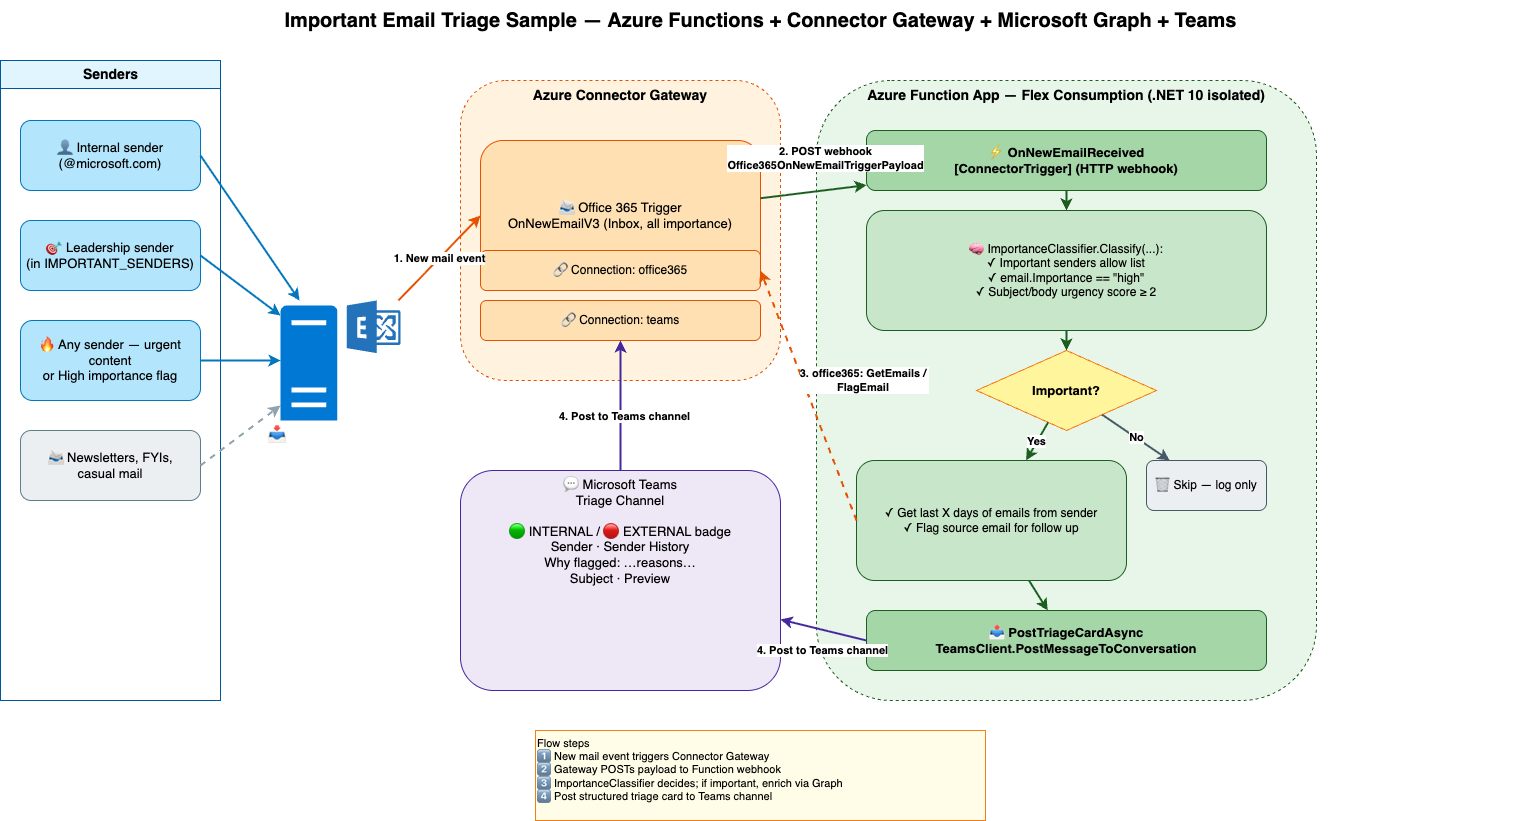
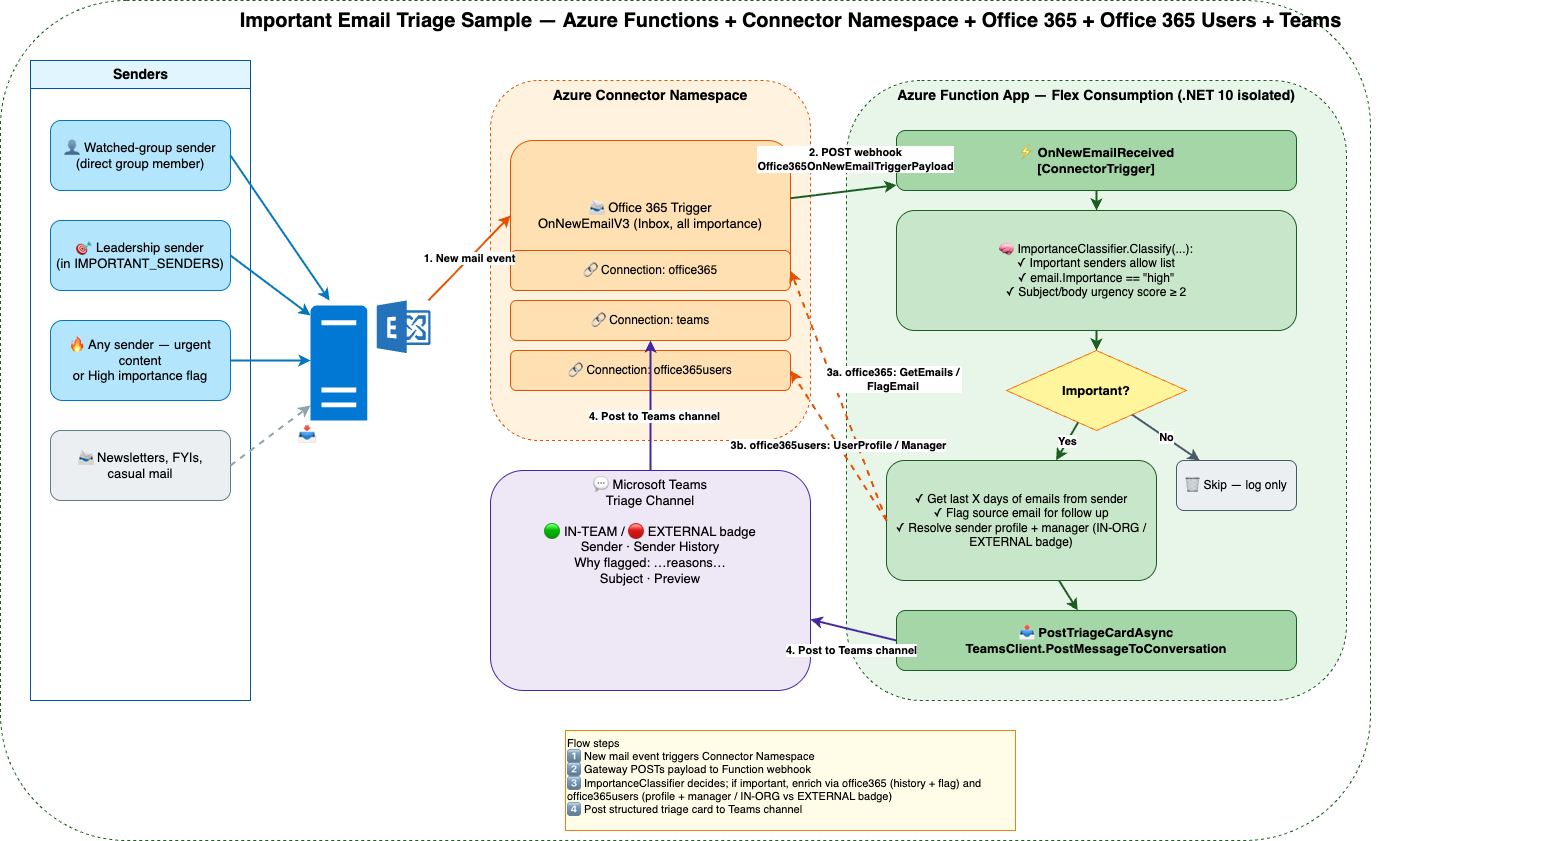
Updating diagram

diff --git a/README.md b/README.md
@@ -1,6 +1,6 @@
 # Azure Functions Connectors Sample
 
-This sample demonstrates how to use **Azure Functions** with **Connector Namespace connectors** to react to events from external services. It listens for new emails arriving in an Office 365 inbox, classifies each one with a small in-process importance heuristic, and — for the ones that pass the bar — enriches the message with **sender history** from the same mailbox, posts a formatted card to a **Microsoft Teams** channel, and **flags the source email** in Outlook so the recipient also has a server-side follow-up reminder.
+This sample demonstrates how to use **Azure Functions** with **Connector Namespace connectors** to react to events from external services. It listens for new emails arriving in a Microsoft 365 inbox, classifies each one with a small in-process importance heuristic, and — for the ones that pass the bar — enriches the message with **sender history** from the same mailbox, posts a formatted card to a **Microsoft Teams** channel, and **flags the source email** in Outlook so the recipient also has a server-side follow-up reminder.
 
 ## Architecture
 
@@ -13,8 +13,8 @@ This sample demonstrates how to use **Azure Functions** with **Connector Namespa
 - **Office 365 Outlook Connector** — Used in two ways:
   - As a **trigger** — the gateway watches the Inbox (`folderPath: Inbox`) and calls the function for every new email.
   - As a **client** inside the function — `GetEmailsAsync` to fetch sender history (last N messages from the same sender), and `FlagAsync` to set the Outlook follow-up flag on the source email when it's classified as important. Scales to any tenant size because everything is scoped to the watched mailbox — no directory enumeration required.
-- **Teams Connector** — Posts the enriched triage card to a configured Teams channel.
 - **Office 365 Users Connector** — Looks up the sender's M365 user profile (`UserProfileAsync`) to determine whether they are in the org. A successful lookup means the sender is an org user (🟢 IN-ORG badge); a 404 means external (🔴 EXTERNAL badge). When the profile is found the card is also enriched with the sender's job title, department, and manager display name (via `ManagerAsync`). To keep this API off the hot path for clearly external mail, configure the optional `INTERNAL_DOMAINS` setting (comma-separated, e.g. `microsoft.com,contoso.com`) — only senders whose domain matches will be looked up. Leave it empty to look up every sender.
+- **Teams Connector** — Posts the enriched triage card to a configured Teams channel.
 
 ## Prerequisites
 
@@ -24,7 +24,7 @@ This sample demonstrates how to use **Azure Functions** with **Connector Namespa
 - [Azure Functions Core Tools v4](https://learn.microsoft.com/azure/azure-functions/functions-run-local)
 - [jq](https://jqlang.github.io/jq/) (required by the post-deploy script on Linux/macOS)
 - An Azure subscription
-- An Office 365 account (for the email connector)
+- A Microsoft 365 account (for the email, users, and Teams connectors)
 
 ## Getting Started
 
@@ -35,15 +35,32 @@ git clone <url>/FunctionAppConnectorsEmailProcessor
 cd FunctionAppConnectorsEmailProcessor
 ```
 
-### 2. Restore and Build (Optional Local Validation)
+### 2. Deploy to Azure
+
+Before running `azd up`, set the Teams team and channel IDs as `azd` environment variables so the deployment can wire them into the Function App settings (`TEAMS_TEAM_ID` / `TEAMS_CHANNEL_ID`).
+
+**Get the Team ID and Channel ID from Microsoft Teams:**
+
+1. Open Microsoft Teams (desktop or web).
+2. Find the channel where you want triage cards posted.
+3. Click the channel's **⋯ (More options)** menu → **Get link to channel** → **Copy**.
+4. The copied URL looks like:
+
+   ```
+   https://teams.microsoft.com/l/channel/19%3aXXXXXXXXXXXXXXXX%40thread.tacv2/General?groupId=00000000-1111-2222-3333-444444444444&tenantId=...
+   ```
+
+   - **Team ID** → the value of the `groupId` query parameter (e.g. `00000000-1111-2222-3333-444444444444`).
+   - **Channel ID** → the segment after `/channel/`, URL-decoded (replace `%3a` with `:` and `%40` with `@`), e.g. `19:[email redacted]2`.
+
+**Set the azd env vars:**
 
 ```bash
-cd function-app
-dotnet restore
-dotnet build
+azd env set TEAMS_TEAM_ID "<your-team-id>"
+azd env set TEAMS_CHANNEL_ID "<your-channel-id>"
 ```
 
-### 3. Deploy to Azure
+**Deploy:**
 
 ```bash
 azd up
@@ -51,18 +68,50 @@ azd up
 
 This provisions all infrastructure (Function App, Connector Namespace, Storage, Application Insights) and deploys the function code. After deployment, a post-deploy script automatically creates the Connector Namespace trigger configuration.
 
-### 4. Authorize the Connections
+### 3. Authorize the Connections
 
-> **⚠️ Important:** After deployment, you **must** authorize all connector connections in the Azure portal before the end-to-end flow will work. Each connection is created in a disabled state and requires OAuth consent.
+The post-deploy script already kicks off connection authorization via the Azure CLI (the portal authorization UX is not yet available for Connector Namespace connections). For each of the three connections — **Office 365**, **Teams**, and **Office 365 Users** — the script:
 
-1. Open the Connector Namespaces portal.
-2. Navigate to the Connector Namespace created by the deployment.
-3. Go to **Connections** and authorize each connection in turn:
-   - **Office 365** — sign in with the account whose inbox you want to monitor (drives the trigger, sender-history lookup, and follow-up flag).
-   - **Teams** — sign in with an account that can post to the target Teams channel.
-   - **Office 365 Users** — sign in with an account that has permission to read user profiles in the directory. Used for `UserProfileAsync` (IN-ORG badge) and `ManagerAsync` (manager enrichment on the triage card).
+1. Installs the early preview [`connector-namespace` Azure CLI extension](https://github.com/anthonychu/azure-cli-extensions/releases/tag/connector-namespace-0.1.0) if it isn't already present.
+2. Runs `az connector-namespace connection authorize`, which opens a browser tab for OAuth consent.
 
-Until the connections are authorized, the trigger will not fire, notifications will fail, and/or the `IN-TEAM` badge will be omitted.
+Sign in with the appropriate account at each prompt:
+
+- **Office 365** — the account whose inbox you want to monitor (drives the trigger, sender-history lookup, and follow-up flag).
+- **Teams** — an account that can post to the target Teams channel.
+- **Office 365 Users** — an account that can read user profiles in the directory (used for `UserProfileAsync` / `ManagerAsync`).
+
+If you ever need to re-run authorization manually (e.g. token expired, account changed), use the commands below. The `*_CONNECTION_NAME` values are exported by the deployment outputs and stored in your `azd` env (`azd env get-values`):
+
+```bash
+# Office 365 (trigger + sender history + follow-up flag)
+az connector-namespace connection authorize \
+  --resource-group "$AZURE_RESOURCE_GROUP" \
+  --namespace-name "$connectorNamespaceName" \
+  --name "$connectorNamespaceConnectionName"
+
+# Teams (post triage card)
+az connector-namespace connection authorize \
+  --resource-group "$AZURE_RESOURCE_GROUP" \
+  --namespace-name "$connectorNamespaceName" \
+  --name "$connectorNamespaceTeamsConnectionName"
+
+# Office 365 Users (IN-ORG badge + manager enrichment)
+az connector-namespace connection authorize \
+  --resource-group "$AZURE_RESOURCE_GROUP" \
+  --namespace-name "$connectorNamespaceName" \
+  --name "$connectorNamespaceOffice365usersConnectionName"
+```
+
+> The `connector-namespace` CLI extension is installed automatically by the post-deploy script. To install it manually:
+>
+> ```bash
+> az extension add \
+>   --source https://github.com/anthonychu/azure-cli-extensions/releases/download/connector-namespace-0.1.0/connector_namespace-0.1.0-py2.py3-none-any.whl \
+>   --yes
+> ```
+
+Until each connection is authorized, the trigger will not fire, Teams notifications will fail, and/or the IN-ORG badge will be omitted.
 
 ## Environment Variables
 
@@ -72,7 +121,7 @@ Until the connections are authorized, the trigger will not fire, notifications w
 | `TEAMS_CHANNEL_ID` | Teams channel ID where triage cards are posted. |
 | `IMPORTANT_SENDERS` | Optional comma-separated email allowlist whose messages always count as important. |
 
-### 5. Test the Solution
+### 4. Test the Solution
 
 Once the connections are authorized, send an email to the authorized account. The function classifies it via [function-app/ImportanceClassifier.cs](function-app/ImportanceClassifier.cs); for important ones it (1) calls the Office 365 connector to get the sender's recent history across the Inbox and Archive folders, (2) posts an enriched triage card to the configured Teams channel, and (3) flags the source email in Outlook.
 